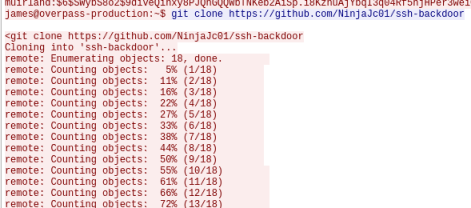
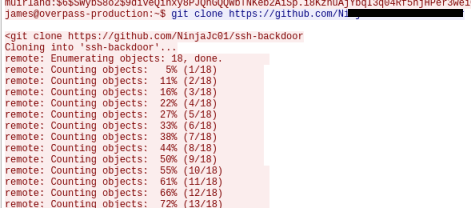
corrections

Changed region(s): [[0.7134, 0.0288, 0.9809, 0.0865]]

diff --git a/_posts/2021-02-24-ctf-thm-overpass2.md b/_posts/2021-02-24-ctf-thm-overpass2.md
@@ -127,7 +127,7 @@ In one of the previous questions we found the URL for the backdoor being used by
 Let's grab the files:
 
 ```text
-root@kali:/home/kali/thm/overpass2# git clone https://github.com/NinjaJc01/ssh-backdoor
+root@kali:/home/kali/thm/overpass2# git clone https://github.com/<HIDDEN>
 Cloning into 'ssh-backdoor'...
 remote: Enumerating objects: 18, done.
 remote: Counting objects: 100% (18/18), done.
@@ -178,7 +178,7 @@ func passwordHandler(_ ssh.Context, password string) bool {
 }
 ```
 
-### Question 2.3
+## Question 2.3
 
 Now we need to find the hash that the hacker used.
 
@@ -480,7 +480,6 @@ james@overpass-production:/home/james$ ./.suid_bash -p
 root
 .suid_bash-4.4# cat /root/root.txt 
 <HIDDEN>
-.suid_bash-4.4# 
 ```
 
 All done. See you next time.
